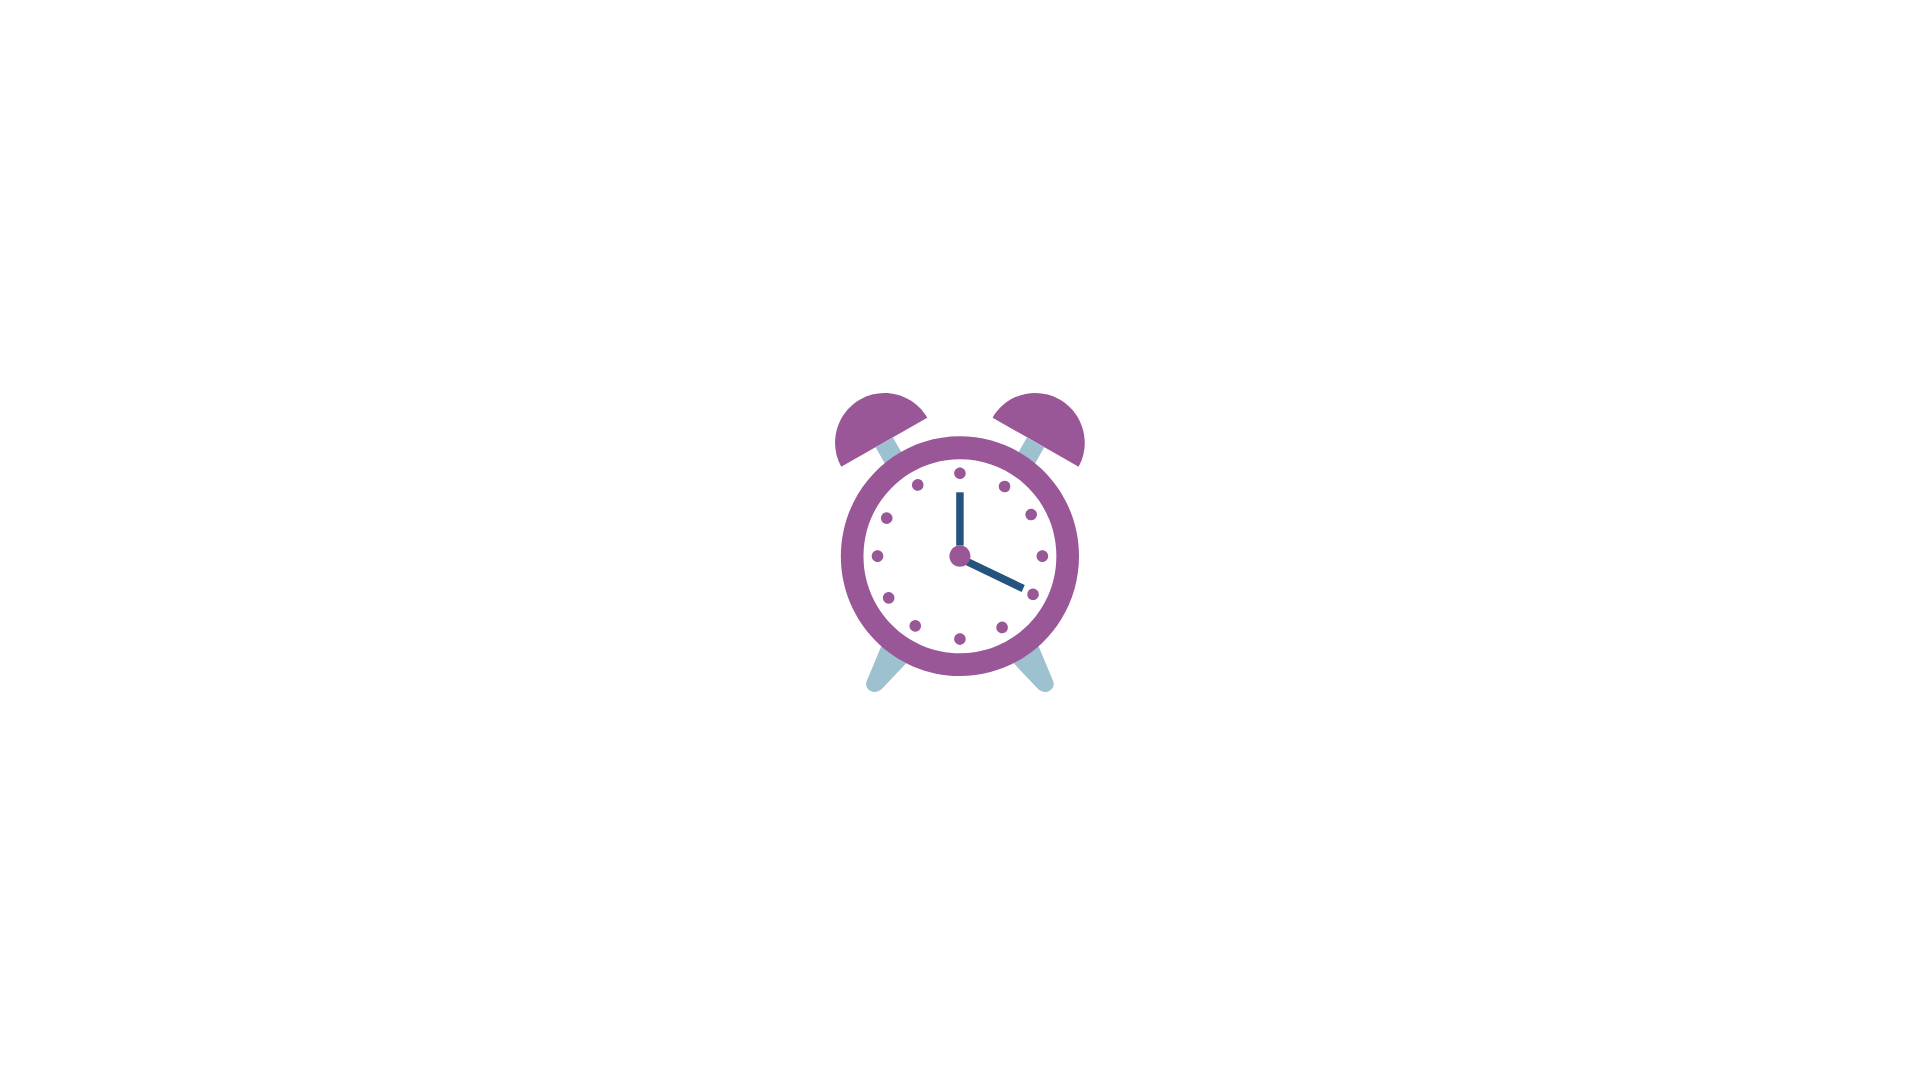
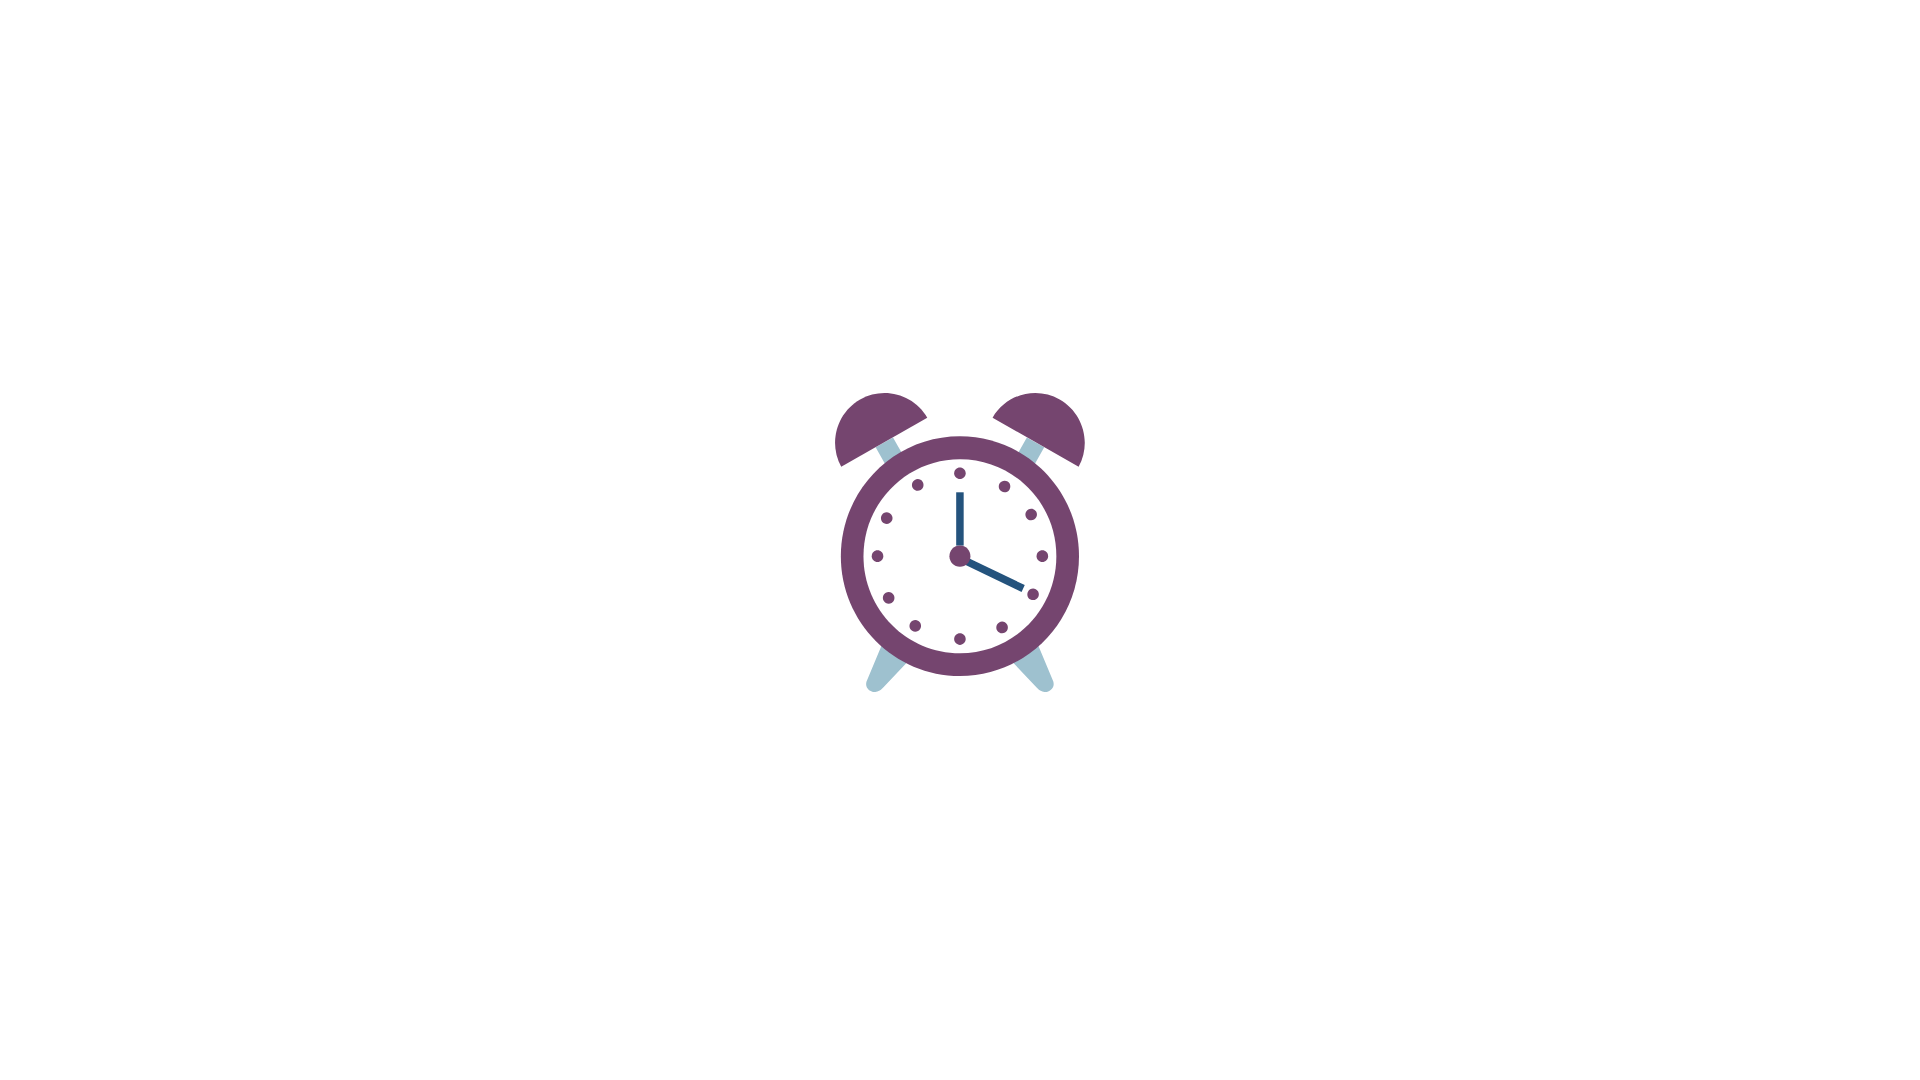
commiting changes

Changed region(s): [[0.4375, 0.3667, 0.5625, 0.6417]]

diff --git a/components/backgroundCard.tsx b/components/backgroundCard.tsx
@@ -2,10 +2,11 @@ import React, { useState } from 'react';
 import { View, Text, ImageBackground, StyleSheet, Pressable } from 'react-native';
 import Lable from './Lable';
 import { Entypo } from "@expo/vector-icons";
-import { firstCard, primaryColor, secondCard, textColor } from '../global';
+import { primaryColor } from '../global';
 import { Feather } from "@expo/vector-icons";
 import { BackgroundCardProps } from '../types/data';
 import MyModal from './MyModal';
+
 {/* <View style={{ backgroundColor: secondCard, width: 35, height: 35, alignItems: 'center', justifyContent: 'center', borderRadius: 8, marginRight: 10 }}>
 <MaterialCommunityIcons name="dumbbell" size={25} color='white' />
 </View> */}

diff --git a/global.ts b/global.ts
@@ -1,9 +1,9 @@
-export const primaryColor = 'rgba(117, 69, 111, 0.8)';
+export const primaryColor = 'rgba(117, 69, 111, 0.9)';
 export const secondaryColor = '#995798';
 export const textColor = '#6c6c6c';
 export const backgroundColor = '#f5f5f5';
 export const secondCard = 'rgba(153, 87, 152, 0.6)';
-export const firstCard = 'rgba(210, 173, 205, 0.8)';
+export const firstCard = 'rgba(210, 173, 205, 1)';
 export const thirdCard = 'rgba(117, 69, 111, 0.8)';
 export const cardBackground = '#f3f3f5'; 
 export const cardBackground2 = 'rgba(153, 87, 152, 0.1)';

diff --git a/components/ColoredCards2.tsx b/components/ColoredCards2.tsx
@@ -1,8 +1,7 @@
 import React from 'react';
 import { View, Text, StyleSheet, Dimensions, Image } from 'react-native'; 
-import { firstCard, primaryColor, secondCard } from '../global';
+import { primaryColor } from '../global';
 import { ImageSourcePropType } from "react-native";
-import { LinearGradient } from 'expo-linear-gradient';
 
 interface ColoredCards2Props {
   title: string;

diff --git a/components/TotalWorkout2.tsx b/components/TotalWorkout2.tsx
@@ -27,7 +27,7 @@ const TotalWorkout2: React.FC = () => {
             title="Total Calorie"
             description="0 kcal"
             cardColor={cardBackground2}
-            imageSource={require('../assets/calories.png')}
+            imageSource={require('../assets/calorie.png')}
             />
       </View>
       </View>
